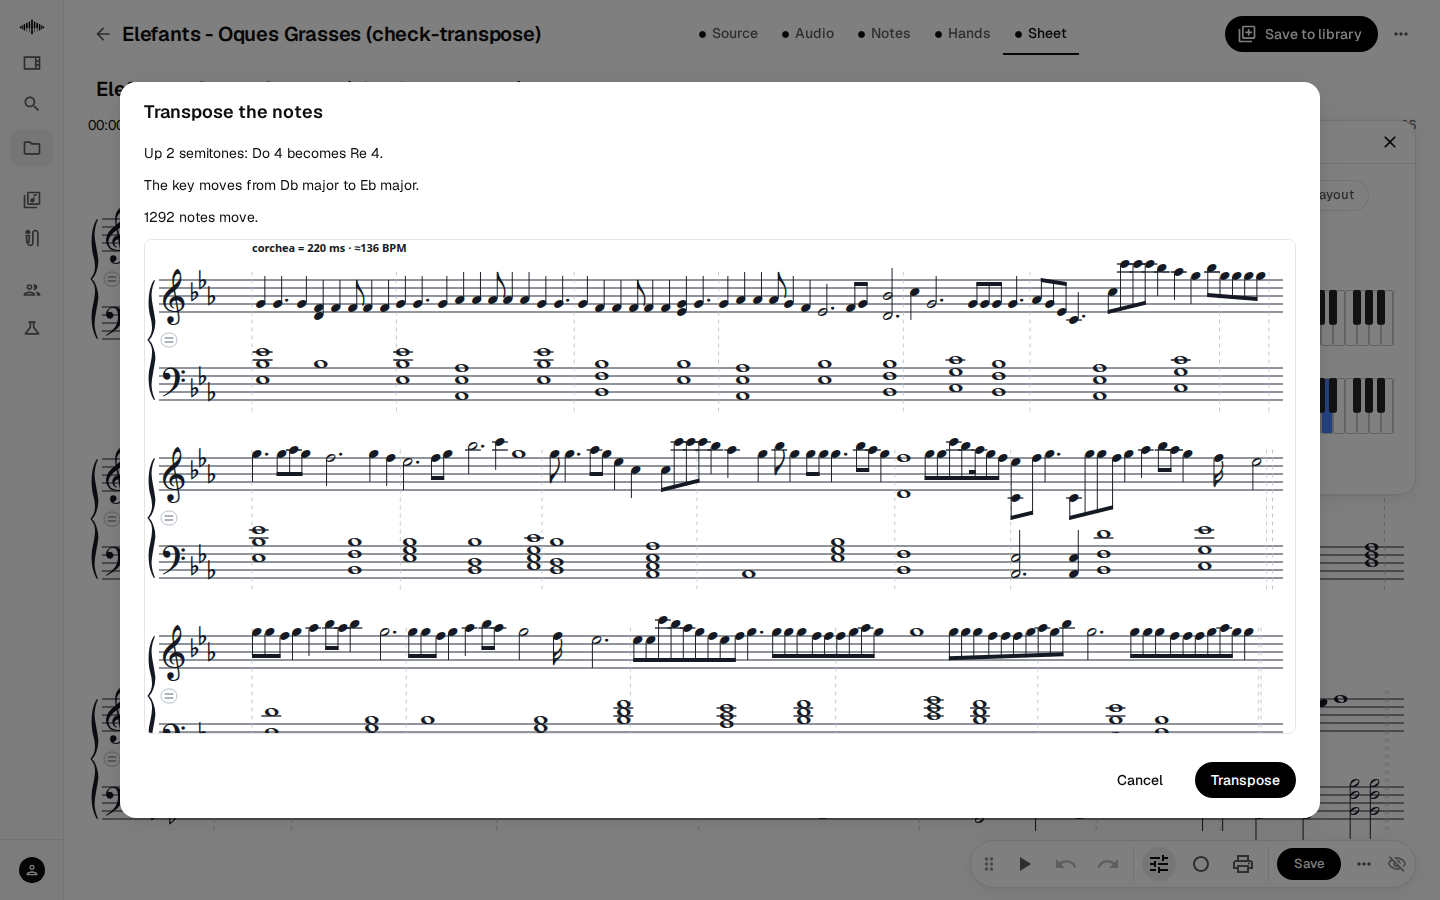
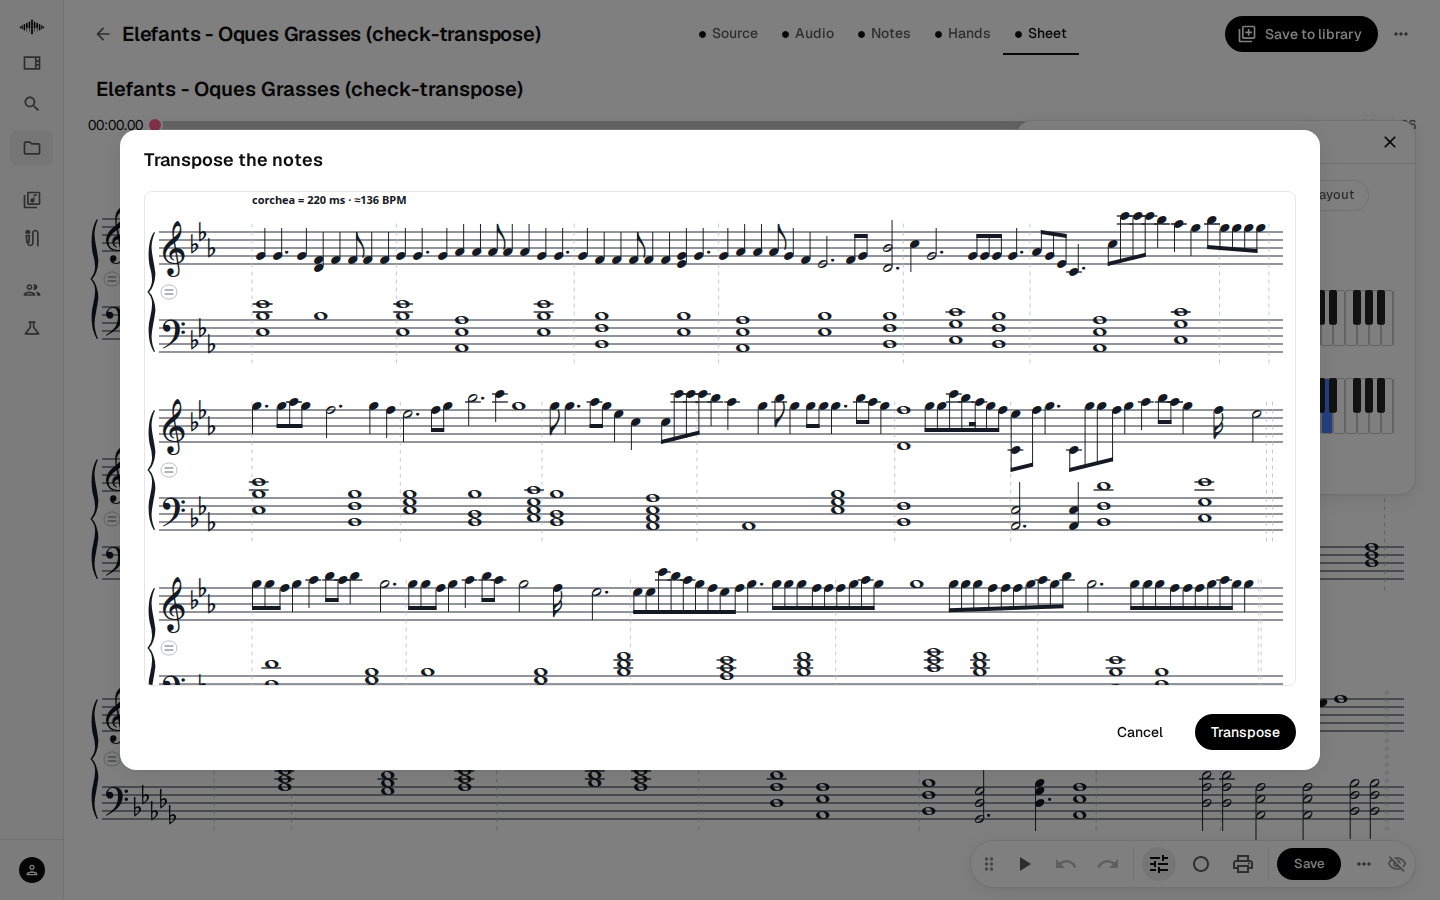
Implementation 02, Phase 7: the transposition preview is the sheet, with a line only when it matters

Changed region(s): [[0.0625, 0.0933, 0.9375, 0.9333]]

diff --git a/aitu-frontend/src/pages/piece/sheet/SheetPage.tsx b/aitu-frontend/src/pages/piece/sheet/SheetPage.tsx
@@ -42,7 +42,6 @@ import ScorePdfDialog from "../../../components/time/ScorePdfDialog";
 import ComposePassagePanel from "../../../components/editing/ComposePassagePanel";
 import CheckIcon from "@mui/icons-material/Check";
 import {
-  KEY_LABELS,
   timeScoreApi,
   type DefaultReading,
   type FigureName,
@@ -65,10 +64,8 @@ import {
   type OttavaAnnotation,
   type OttavaResizeChange,
 } from "@aimpromptu/grid-notation";
-import { spanishNoteShort } from "../../../music/noteNames";
 import {
   figureSteps,
-  intervalWords,
   shiftFigure,
   transposeKey,
   transposeKeyChanges,
@@ -186,9 +183,6 @@ function clearOfClefChanges(
     return [next ? { ...span, toColumn: next.fromColumn } : span];
   });
 }
-
-/** The major key a signature is named by: "D major". */
-const majorName = (key: KeySignatureName) => KEY_LABELS[key].split(" / ")[0]!;
 
 /** A transposition waiting in its preview dialog for **Transpose** or **Cancel**. */
 type TransposePreview =
@@ -1641,14 +1635,12 @@ export function SheetPage({ step }: { step?: SheetStep } = {}) {
    * the keyboard, and draws the sheet with the notes moved, writing nothing.
    */
   const previewNotes = useCallback(
-    async (semitones: number, from: number, to: number) => {
+    async (semitones: number) => {
       if (!audioUuid || anchorMs === null) return;
       const moved = notesMarksMoved(semitones);
-      const facts = [
-        `${intervalWords(semitones)}: ${spanishNoteShort(from)} becomes ${spanishNoteShort(to)}.`,
-        `The key moves from ${majorName(keySignature)} to ${majorName(moved.keySignature)}.`,
-      ];
-      setTransposePreview({ kind: "notes", semitones, facts, sheet: null, error: null });
+      // The sheet says what changes. A line is added only where it changes the decision: notes the
+      // keyboard cannot hold (below).
+      setTransposePreview({ kind: "notes", semitones, facts: [], sheet: null, error: null });
       setPreviewing(true);
       try {
         const [counts, previewScore] = await Promise.all([
@@ -1666,7 +1658,6 @@ export function SheetPage({ step }: { step?: SheetStep } = {}) {
           }),
         ]);
         const counted = [
-          `${counts.moved} note${counts.moved === 1 ? "" : "s"} move.`,
           ...(counts.outside > 0
             ? [
                 `${counts.outside} note${counts.outside === 1 ? "" : "s"} would leave the keyboard and ${
@@ -1713,7 +1704,6 @@ export function SheetPage({ step }: { step?: SheetStep } = {}) {
       frameMs,
       stretches,
       dropDecorative,
-      keySignature,
       notesMarksMoved,
       previewSheetOf,
       drawnMarks,
@@ -1739,9 +1729,6 @@ export function SheetPage({ step }: { step?: SheetStep } = {}) {
         if (moved) nextOverrides[key] = moved;
         else overridesRemoved += 1;
       }
-      const words = `${Math.abs(steps) === 1 ? "one step" : `${Math.abs(steps)} steps`} ${
-        steps < 0 ? "shorter" : "longer"
-      }`;
       setTransposePreview({
         kind: "figures",
         to,
@@ -1749,7 +1736,7 @@ export function SheetPage({ step }: { step?: SheetStep } = {}) {
         overrides: nextOverrides,
         beamBreaks,
         beamJoins,
-        facts: [`Every figure becomes ${words}. No note moves.`],
+        facts: [],
         sheet: null,
         error: null,
       });
@@ -2538,7 +2525,7 @@ export function SheetPage({ step }: { step?: SheetStep } = {}) {
         sheetZoom={sheetZoom}
         setSheetZoom={setSheetZoom}
         transposing={previewing}
-        onPreviewNotes={(semitones, from, to) => void previewNotes(semitones, from, to)}
+        onPreviewNotes={(semitones) => void previewNotes(semitones)}
         onPreviewFigures={(from, to) => void previewFigures(from, to)}
         pickedLyrics={pickedLyrics}
         setPickedLyrics={setPickedLyrics}

diff --git a/context/implementations/02-private-web-app/02-implementation-phase-7.md b/context/implementations/02-private-web-app/02-implementation-phase-7.md
@@ -221,6 +221,13 @@ unsaved dot ignores the pool (`sameSheet`), its Save no longer sends it, and **R
 One backend test (the pool saved, absent keeps it, a sheet saved without it keeps the older one);
 `check:lyrics` checks the button comes back after a pool change and the pool after a reload.
 
+**Ninth review: the preview is the sheet.** The user found the dialog's lines ("Down 1 semitone: Do#
+4 becomes Do 4.", "The key moves from Db major to C major.", "1292 notes move.") of no use to a
+reader, who sees all of it on the sheet. They are gone, and "Every figure becomes one step shorter"
+of the figures preview too. A line is shown only where it changes the decision: notes that would
+leave the keyboard (taken off the page), and marks a figures transposition would remove.
+`check:transpose` checks the dialog holds no text when neither applies (shot 01).
+
 # 4. Story 7.3: keys and clefs of passages
 
 ## 4.1 Key for this passage

diff --git a/context/frontend/annotations-sheet.md b/context/frontend/annotations-sheet.md
@@ -25,8 +25,9 @@ main figure) by **Transpose**, and added **Lyrics**.
 ## Transpose
 
 Two kinds, chosen at the top of the tab. Neither changes anything until the dialog's **Transpose**:
-**Preview** opens one dialog with the piano sheet as it would be, a few lines saying what changes,
-and **Transpose** or **Cancel**. Each transposition is then one undo step.
+**Preview** opens one dialog with the piano sheet as it would be and **Transpose** or **Cancel**;
+a line of text is added only when it changes the decision (notes that would leave the keyboard,
+marks that would be removed). Each transposition is then one undo step.
 
 **Notes.** Two small keyboards, **From** and **To** (both on Do 4 at first; the name of a key is on
 its tooltip, in Spanish). The interval between the two keys ("Up 2 semitones") moves **every note
